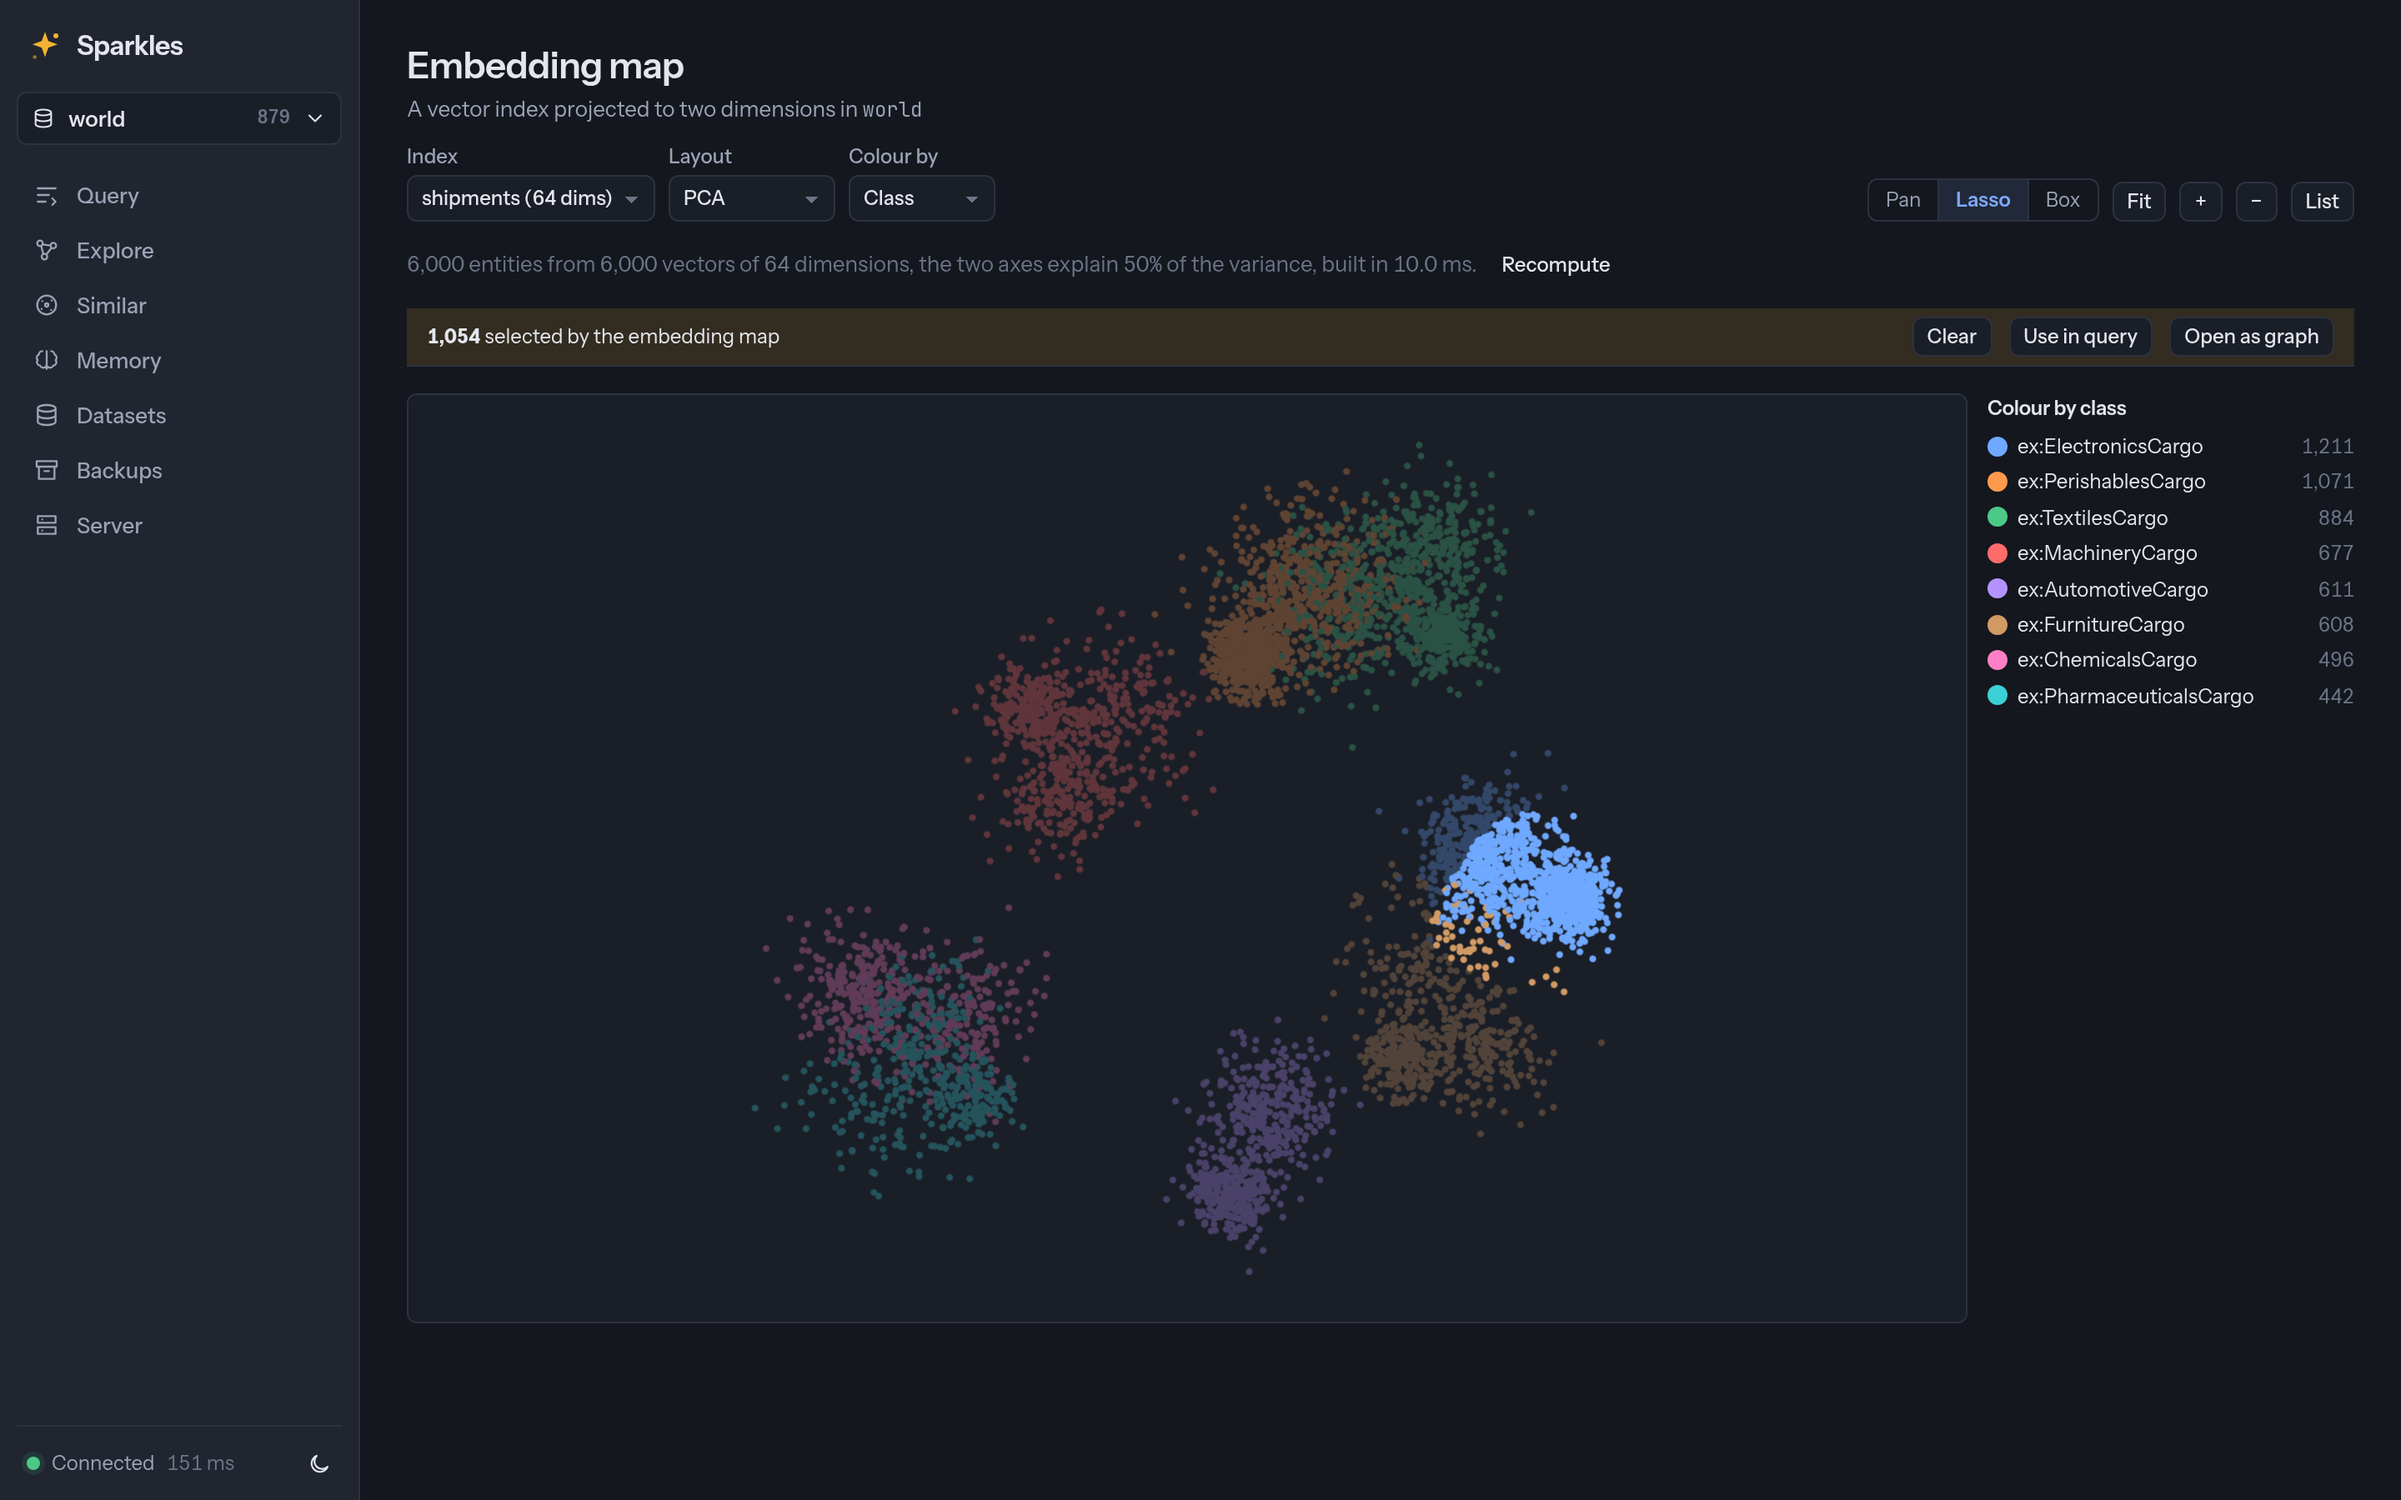
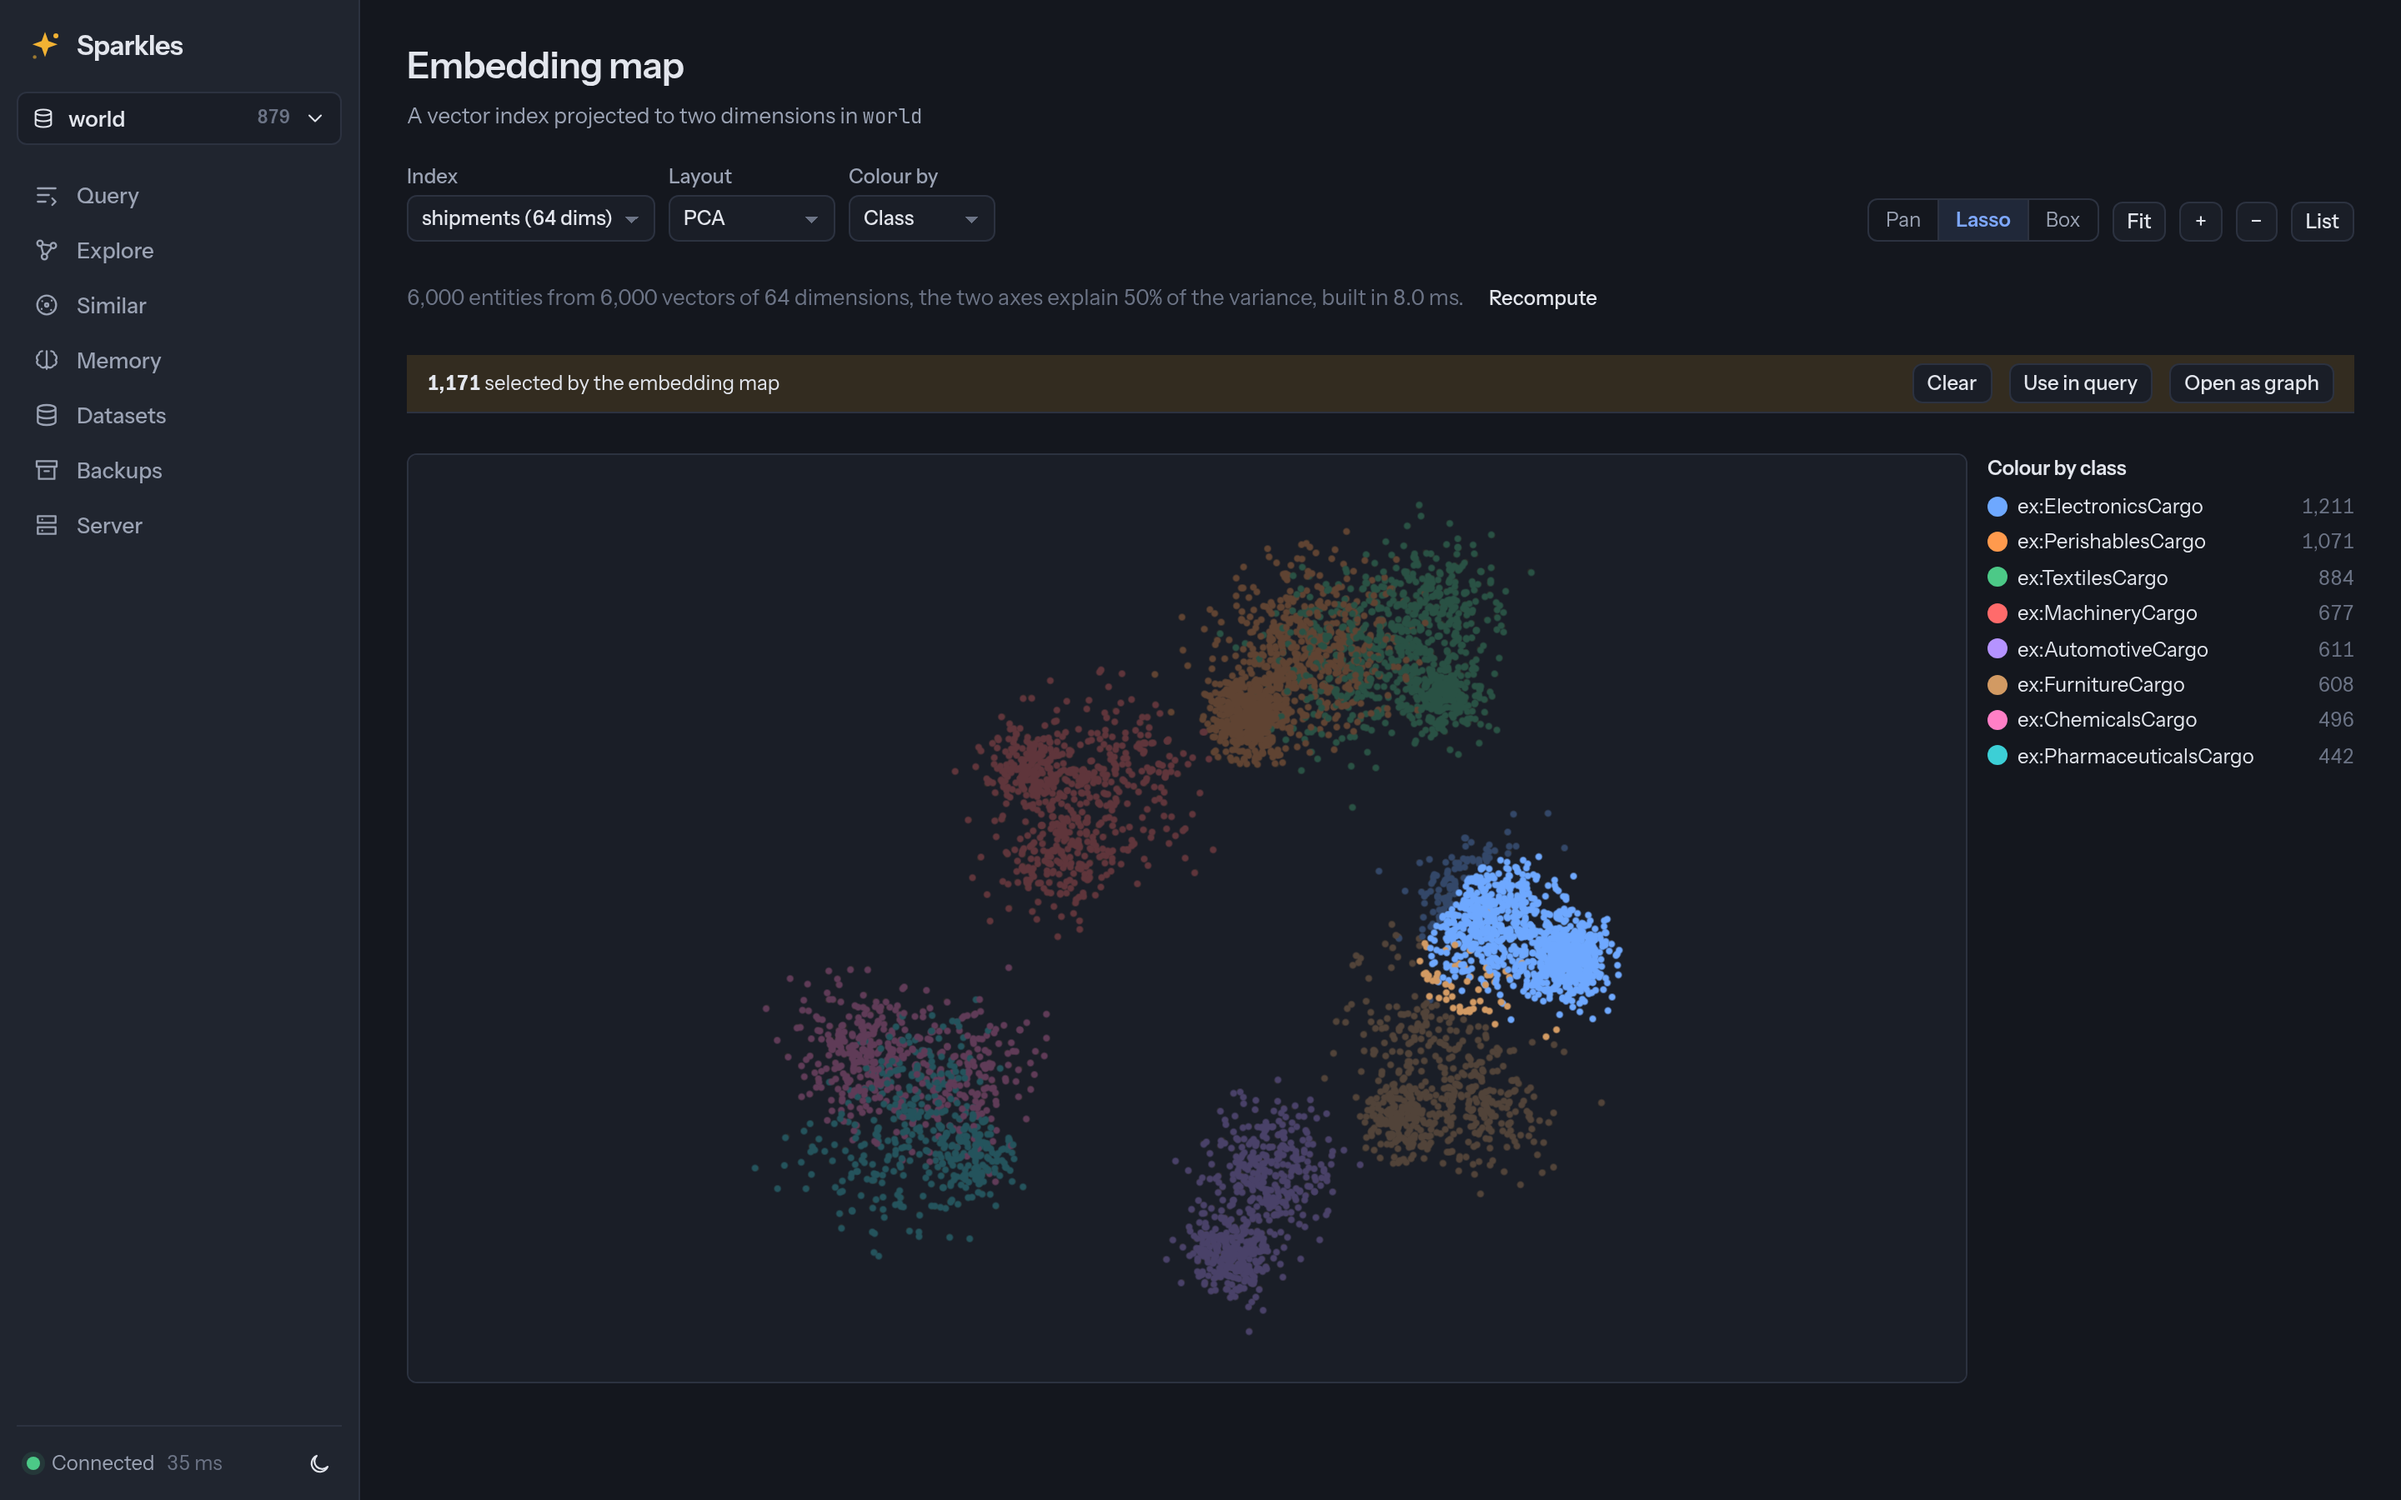
Refresh the Memory and embedding map screenshots for the shared page header

diff --git a/README.md b/README.md
@@ -163,7 +163,7 @@ panel below it has more workflows and detail views.
   </tr>
   <tr>
     <td><img src="docs/images/explore-facets.png" alt="The resource explorer with the Facets panel beside a person's graph, brushing an age range on a histogram and one employer on a bar list, so that the other facets count the 41 people under both brushes and the drawn people outside them are dimmed"></td>
-    <td><img src="docs/images/embedding-map.png" alt="The embedding map of 6,000 freight shipments projected from 64-dimensional vectors to two dimensions and coloured by cargo class, with the legend counting each class and a lasso around one cluster whose 1,054 shipments form the shared selection, ready for Use in query or Open as graph"></td>
+    <td><img src="docs/images/embedding-map.png" alt="The embedding map of 6,000 freight shipments projected from 64-dimensional vectors to two dimensions and coloured by cargo class, with the legend counting each class and a lasso around one cluster whose 1,171 shipments form the shared selection, ready for Use in query or Open as graph"></td>
   </tr>
   <tr>
     <td>Facet histograms whose brushes filter the graph</td>
